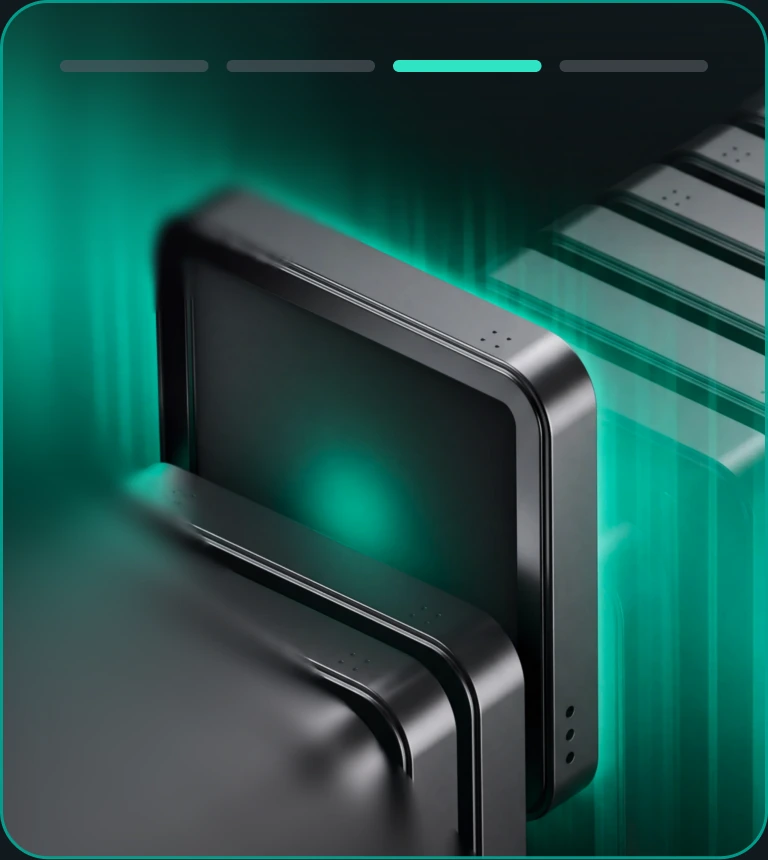
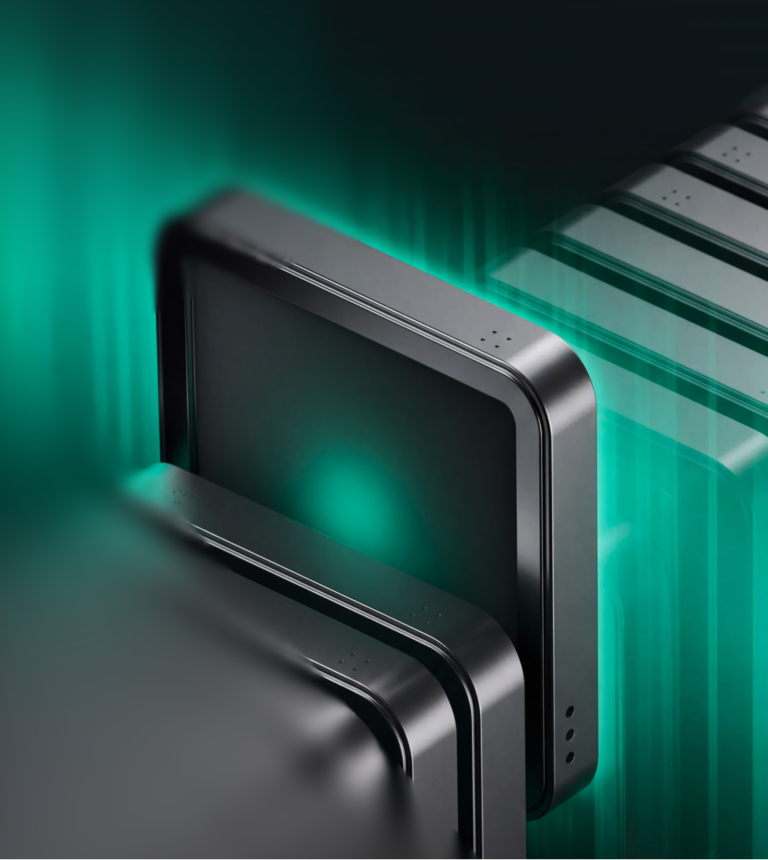
Use supplied slider artwork and synchronized story progress without bottom overlay

Changed region(s): [[0.0, 0.393, 1.0, 1.0], [0.0, 0.0, 1.0, 0.514], [0.0625, 0.0605, 0.9375, 0.0907]]

diff --git a/src/interactive.js b/src/interactive.js
@@ -58,7 +58,6 @@ export class ShiftSelector {
     this.panels = [...root.querySelectorAll('.shift-image')];
     this.tabs = [...root.querySelectorAll('[data-shift]')];
     this.indicators = [...root.querySelectorAll('.shift-progress > span')];
-    this.playButton = root.querySelector('.carousel-play');
     this.active = 1;
     this.elapsed = 0;
     this.lastTime = 0;
@@ -77,40 +76,42 @@ export class ShiftSelector {
         if (event.key === 'End') target = shifts.length - 1;
         if (target === undefined) return;
         event.preventDefault();
+        this.pause('focus');
         this.select(target, true);
         this.tabs[target].focus({ preventScroll: true });
       });
     });
-    root.addEventListener('pointerenter', event => {
+    this.visual.addEventListener('pointerenter', event => {
       if (event.pointerType !== 'touch' && matchMedia('(hover: hover) and (pointer: fine)').matches) this.pause('hover');
     }, { passive: true });
-    root.addEventListener('pointerleave', () => this.resume('hover'), { passive: true });
-    root.addEventListener('focusin', () => this.pause('focus'));
+    this.visual.addEventListener('pointerleave', () => this.resume('hover'), { passive: true });
+    root.addEventListener('focusin', event => {
+      if (event.target.matches(':focus-visible')) this.pause('focus');
+    });
+    root.addEventListener('pointerdown', () => this.resume('focus'), { passive:true });
     root.addEventListener('focusout', event => { if (!root.contains(event.relatedTarget)) this.resume('focus'); });
     document.addEventListener('visibilitychange', () => document.hidden ? this.pause('hidden') : this.resume('hidden'));
     document.addEventListener('critical:dialog', event => event.detail.open ? this.pause('dialog') : this.resume('dialog'));
     new IntersectionObserver(entries => {
       for (const entry of entries) entry.isIntersecting ? this.resume('offscreen') : this.pause('offscreen');
     }, { threshold: .15 }).observe(this.visual);
-    this.playButton.addEventListener('click', () => {
-      this.automatic = !reducedMotion.matches && !this.automatic;
-      this.updatePlayControl();
-      this.schedule();
-    });
     reducedMotion.addEventListener('change', () => {
+      this.automatic = !reducedMotion.matches;
       if (reducedMotion.matches) {
-        this.automatic = false;
         this.sequence++;
         this.animations.forEach(animation => animation.cancel());
         this.animations = [];
         this.panels.forEach((panel, index) => { panel.hidden = index !== this.active; });
       }
-      this.updatePlayControl();
+      this.updateProgress();
       this.schedule();
     });
     let touchStart = null;
     this.visual.addEventListener('pointerdown', event => {
-      if (event.pointerType === 'touch') touchStart = { x: event.clientX, y: event.clientY };
+      if (event.pointerType === 'touch') {
+        touchStart = { x: event.clientX, y: event.clientY };
+        this.pause('touch');
+      }
     }, { passive: true });
     this.visual.addEventListener('pointerup', event => {
       if (!touchStart) return;
@@ -118,18 +119,15 @@ export class ShiftSelector {
       const dy = event.clientY - touchStart.y;
       touchStart = null;
       if (Math.abs(dx) > 42 && Math.abs(dx) > Math.abs(dy) * 1.3) this.select((this.active + (dx < 0 ? 1 : 3)) % 4, true);
+      this.resume('touch');
     }, { passive: true });
-    this.visual.addEventListener('pointercancel', () => { touchStart = null; }, { passive: true });
-    this.updatePlayControl();
+    this.visual.addEventListener('pointercancel', () => { touchStart = null; this.resume('touch'); }, { passive: true });
+    this.updateProgress();
   }
   pause(reason) { this.pauses.add(reason); this.schedule(); }
   resume(reason) { this.pauses.delete(reason); this.schedule(); }
-  updatePlayControl() {
-    this.playButton.disabled = reducedMotion.matches;
-    this.playButton.setAttribute('aria-label', reducedMotion.matches ? 'Automatic rotation disabled by reduced motion' : this.automatic ? 'Pause automatic slide rotation' : 'Play automatic slide rotation');
-    this.playButton.setAttribute('aria-pressed', String(!this.automatic));
-    this.playButton.querySelector('use').setAttribute('href', this.automatic ? '#pause' : '#play');
-    if (!this.automatic) this.visual.style.setProperty('--slide-progress', '1');
+  updateProgress() {
+    this.visual.style.setProperty('--slide-progress', this.automatic ? String(Math.min(1, this.elapsed / config.carouselInterval)) : '1');
   }
   schedule() {
     if (this.frame) cancelAnimationFrame(this.frame);
@@ -140,15 +138,16 @@ export class ShiftSelector {
   tick(time) {
     if (this.lastTime) this.elapsed += Math.min(100, time - this.lastTime);
     this.lastTime = time;
-    this.visual.style.setProperty('--slide-progress', String(Math.min(1, this.elapsed / config.carouselInterval)));
+    this.updateProgress();
     if (this.elapsed >= config.carouselInterval) this.select((this.active + 1) % 4, false);
     if (this.automatic && !this.pauses.size && !reducedMotion.matches) this.frame = requestAnimationFrame(next => this.tick(next));
     else this.frame = 0;
   }
   select(index, userInitiated = false) {
     if (!Number.isInteger(index) || index < 0 || index >= this.panels.length) return;
-    if (userInitiated) { this.automatic = false; this.updatePlayControl(); this.schedule(); }
     this.elapsed = 0;
+    this.updateProgress();
+    if (userInitiated) this.schedule();
     if (index === this.active) return;
     this.animations.forEach(animation => animation.cancel());
     this.animations = [];
@@ -167,9 +166,10 @@ export class ShiftSelector {
       tab.setAttribute('aria-selected', String(i === index));
       tab.tabIndex = i === index ? 0 : -1;
     });
-    this.indicators.forEach((indicator, i) => indicator.classList.toggle('is-active', i === index));
-    this.root.querySelector('.shift-position').textContent = `${shifts[index].index} / 04`;
-    this.root.querySelector('.shift-category').textContent = shifts[index].category;
+    this.indicators.forEach((indicator, i) => {
+      indicator.classList.toggle('is-active', i === index);
+      indicator.classList.toggle('is-complete', i < index);
+    });
     if (userInitiated) this.root.querySelector('#shift-announcement').textContent = `${shifts[index].index} of 4. ${shifts[index].title}. ${shifts[index].category}.`;
     if (reducedMotion.matches) { old.hidden = true; return; }
     const incoming = next.animate([

diff --git a/index.html b/index.html
@@ -86,15 +86,13 @@
         <div class="shifts-intro" data-reveal><h2 id="shifts-title">Understand the four shifts reshaping business risk</h2><p class="muted">The Critical 90 guide examines four closely connected cyber shifts through a business lens. It explains where exposure may arise, what the potential consequences are and which actions your business should prioritize over the next 90 days.</p><p class="shifts-prompt accent">What are the four cyber shifts?</p></div>
         <div class="shift-visual" id="shift-visual" data-reveal role="region" aria-roledescription="carousel" aria-label="Four cyber shifts">
           <div class="shift-images">
-            <div id="shift-panel-0" class="shift-image" role="tabpanel" aria-labelledby="shift-tab-0" hidden><img src="./assets/shift-revenue.webp" alt="Artificial intelligence accelerating cyber attacks" width="768" height="859" loading="lazy" decoding="async"></div>
-            <div id="shift-panel-1" class="shift-image is-active" role="tabpanel" aria-labelledby="shift-tab-1"><img src="./assets/shift-operations.webp" alt="Digital identity on a monitor, rendered in green light" width="615" height="688" loading="lazy" decoding="async"></div>
-            <div id="shift-panel-2" class="shift-image" role="tabpanel" aria-labelledby="shift-tab-2" hidden><img src="./assets/shift-compliance.webp" alt="Connected SaaS and supply-chain infrastructure" width="768" height="859" loading="lazy" decoding="async"></div>
-            <div id="shift-panel-3" class="shift-image" role="tabpanel" aria-labelledby="shift-tab-3" hidden><img src="./assets/shift-trust.webp" alt="Artificial intelligence and data security" width="768" height="859" loading="lazy" decoding="async"></div>
+            <div id="shift-panel-0" class="shift-image" role="tabpanel" aria-labelledby="shift-tab-0" hidden><img src="./assets/shift-revenue.webp" alt="Artificial intelligence accelerating cyber attacks" width="768" height="860" loading="lazy" decoding="async"></div>
+            <div id="shift-panel-1" class="shift-image is-active" role="tabpanel" aria-labelledby="shift-tab-1"><img src="./assets/shift-operations.webp" alt="Digital identity on a monitor, rendered in green light" width="768" height="860" loading="lazy" decoding="async"></div>
+            <div id="shift-panel-2" class="shift-image" role="tabpanel" aria-labelledby="shift-tab-2" hidden><img src="./assets/shift-compliance.webp" alt="Connected SaaS and supply-chain infrastructure" width="768" height="860" loading="lazy" decoding="async"></div>
+            <div id="shift-panel-3" class="shift-image" role="tabpanel" aria-labelledby="shift-tab-3" hidden><img src="./assets/shift-trust.webp" alt="Artificial intelligence and data security" width="768" height="860" loading="lazy" decoding="async"></div>
           </div>
-          <div class="shift-progress" aria-hidden="true"><span><i></i></span><span class="is-active"><i></i></span><span><i></i></span><span><i></i></span></div>
+          <div class="shift-progress" aria-hidden="true"><span class="is-complete"><i></i></span><span class="is-active"><i></i></span><span><i></i></span><span><i></i></span></div>
           <div class="scan-light" aria-hidden="true"></div>
-          <div class="shift-caption"><span class="shift-position">02 / 04</span><span class="shift-category">Operations</span></div>
-          <button class="carousel-play" aria-label="Pause automatic slide rotation" aria-pressed="false"><svg class="icon"><use href="#pause"/></svg></button>
         </div>
         <div class="shift-tabs" role="tablist" aria-label="Choose a cyber shift" data-reveal data-delay="100">
           <button class="shift-card glass" id="shift-tab-0" role="tab" aria-selected="false" aria-controls="shift-panel-0" tabindex="-1" data-shift="0"><span class="shift-title">AI accelerating<br> attacks</span><span class="shift-meta"><span class="shift-index">01</span><span class="category-label">Revenue</span></span></button>

diff --git a/src/styles.css b/src/styles.css
@@ -110,13 +110,7 @@ p { margin: 0; }
 .shift-progress>span { height: 4px; background: #41484c; border-radius: 5px; overflow: hidden; flex: 1; }
 .shift-progress i { display: block; height: 100%; background: linear-gradient(90deg,#65f5c9,#19c8c5); transform-origin: left; transform: scaleX(0); }
 .shift-progress .is-active i { transform: scaleX(var(--slide-progress,1)); }
-.shift-caption { position: absolute; z-index: 3; left: 0; right: 0; bottom: 0; padding: 65px 24px 20px; display: flex; align-items: center; gap: 16px; opacity: 0; transform: translateY(6px); background: linear-gradient(transparent,#041319e6); pointer-events: none; transition: opacity .3s,transform .4s; }
-.shift-position { font-size: 12px; color: var(--muted); font-variant-numeric: tabular-nums; letter-spacing: .08em; }
-.shift-category { font-size: 14px; color: var(--accent); text-transform: uppercase; letter-spacing: .1em; }
-.shift-visual:hover .shift-caption, .shift-visual:focus-within .shift-caption { opacity: 1; transform: none; }
-.carousel-play { position: absolute; right: 16px; bottom: 12px; z-index: 6; width: 40px; height: 40px; padding: 10px; border-radius: 50%; border: 1px solid rgb(109 230 205 / 30%); background: rgb(5 19 22 / 75%); opacity: .65; transition: opacity .2s,background .2s; }
-.carousel-play .icon { width: 18px; height: 18px; }
-.carousel-play:hover { opacity: 1; background: #14413b; }
+.shift-progress .is-complete i { transform: scaleX(1); }
 .shift-card:hover { border-color: #58d4bc88; transform: translateY(-3px); }
 .shift-card.is-selected { border-color: #00edc6; background: radial-gradient(ellipse at 110% 115%,#367f6d,transparent 70%),linear-gradient(120deg,#102e32,#071e22 62%); box-shadow: inset 0 0 45px #29ccb110,0 0 36px #00ba9210; }
 .shift-card.is-selected .shift-index { color: #b4ecdf; }
@@ -489,8 +483,6 @@ h1 { margin: 0; font-weight: 500; font-size: 82px; letter-spacing: 0; line-heigh
   .priority-art { display: none; }
   .impact-list { width: 100%; }
   .shift-visual { width: 100%; max-width: 100%; }
-  .shift-caption { opacity: 1; transform: none; }
-  .carousel-play { opacity: .85; }
   .shift-progress { padding: 20px; }
   .why-copy { width: 100%; }
   .why-copy h2 br:first-child { display: none; }
@@ -562,7 +554,6 @@ h1 { margin: 0; font-weight: 500; font-size: 82px; letter-spacing: 0; line-heigh
   .page-flow { padding-top: 64px; }
   .priority .button { width: 100%; }
   .shift-meta { gap: 6px; }
-  .shift-category { font-size: 12px; }
   .feature-grid { grid-template-columns: 1fr; }
   .feature-outcome .button { font-size: 18px; padding-inline: 16px; }
   .section-action { margin-top: 40px; }
@@ -619,10 +610,6 @@ h1 { margin: 0; font-weight: 500; font-size: 82px; letter-spacing: 0; line-heigh
   .impact-icon { width: 30px; height: 30px; }
   .shift-tabs { grid-template-columns: 1fr; }
   .shift-progress { padding: 16px 16px 18px; }
-  .shift-caption { padding: 50px 16px 18px; }
-  .shift-category { font-size: 11px; }
-  .shift-position { font-size: 10px; }
-  .carousel-play { right: 10px; bottom: 10px; width: 34px; height: 34px; padding: 8px; }
   .eyebrow { font-size: 12px; }
   .feature-icon { width: 40px; height: 44px; }
   .framework-heading .eyebrow { font-size: 11px; letter-spacing: .06em; }
@@ -687,7 +674,7 @@ h1 { margin: 0; font-weight: 500; font-size: 82px; letter-spacing: 0; line-heigh
 }
 
 @media print {
-  .site-header, .button, .back-top, .carousel-play, .scroll-cue, dialog, .reading-progress { display: none !important; }
+  .site-header, .button, .back-top, .scroll-cue, dialog, .reading-progress { display: none !important; }
   body { background: white; color: black; }
   .hero-stage { min-height: 0; }
   .hero-copy { padding-block: 40px; }

diff --git a/tests/browser_test.py b/tests/browser_test.py
@@ -91,11 +91,15 @@ async def run():
                 await page.locator(f'#shift-tab-{i}').click()
                 assert await page.locator(f'#shift-tab-{i}').get_attribute('aria-selected')=='true'
                 assert await page.locator(f'#shift-panel-{i}').is_visible()
+                assert await page.locator('.shift-progress .is-complete').count()==i
+                assert await page.locator(f'#shift-panel-{i} img').evaluate('e=>e.naturalWidth===768 && e.naturalHeight===860')
+                await page.locator('.shift-visual').screenshot(path=str(OUT/f'slider-image-{i+1}-1440.png'))
             await page.locator('#shift-tab-1').focus()
             for key,index in [('ArrowRight',2),('Home',0),('End',3),('ArrowDown',0),('ArrowUp',3)]:
                 await page.keyboard.press(key)
                 assert await page.locator(f'#shift-tab-{index}').get_attribute('aria-selected')=='true'
-            assert await page.locator('.carousel-play').is_disabled()
+            assert await page.locator('.carousel-play,.shift-caption').count()==0
+            assert await page.locator('.shift-visual').evaluate('e=>e.style.getPropertyValue("--slide-progress")==="1"')
             report['checks'].append('Four slide states, arrows, Home/End and reduced-motion autoplay lock')
             await page.locator('#shifts').screenshot(path=str(OUT/'slider-trust.png'))
             for day in (30,60,90):
@@ -129,8 +133,25 @@ async def run():
             await page.locator('.shift-visual').evaluate('e=>e.scrollIntoView({block:"center",behavior:"instant"})')
             await page.mouse.move(2,2)
             initial=await page.locator('[role=tab][aria-selected=true]').get_attribute('id')
+            await page.wait_for_timeout(350)
+            progress=await page.locator('.shift-visual').evaluate('e=>parseFloat(e.style.getPropertyValue("--slide-progress"))')
+            assert 0<progress<1,progress
             await page.wait_for_timeout(9100)
             assert initial!=await page.locator('[role=tab][aria-selected=true]').get_attribute('id')
+            # Manual selection restarts the timed strip, then the last slide wraps to the first.
+            await page.locator('#shift-tab-3').click()
+            assert await page.locator('.shift-visual').evaluate('e=>parseFloat(e.style.getPropertyValue("--slide-progress"))<.06')
+            assert await page.locator('.shift-progress .is-complete').count()==3
+            await page.mouse.move(2,2)
+            await page.wait_for_timeout(9100)
+            assert await page.locator('#shift-tab-0').get_attribute('aria-selected')=='true'
+            assert await page.locator('#shift-panel-0').is_visible()
+            assert await page.locator('.shift-progress .is-complete').count()==0
+            await page.locator('.shift-visual').hover()
+            paused=await page.locator('.shift-visual').evaluate('e=>e.style.getPropertyValue("--slide-progress")')
+            await page.wait_for_timeout(350)
+            assert paused==await page.locator('.shift-visual').evaluate('e=>e.style.getPropertyValue("--slide-progress")')
+            report['checks'].append('Story progress fills, advances image and card, resets on selection, wraps and pauses on image hover')
             await page.evaluate('scrollTo({top:0,behavior:"instant"})')
             await page.wait_for_timeout(200)
             frozen=await page.locator('.shift-visual').evaluate('e=>e.style.getPropertyValue("--slide-progress")')
@@ -155,7 +176,7 @@ async def run():
             await page.emulate_media(reduced_motion='reduce')
             await page.wait_for_timeout(100)
             assert await page.locator('.hero-artwork').evaluate('e=>!e.style.getPropertyValue("--hero-x")')
-            assert await page.locator('.carousel-play').is_disabled()
+            assert await page.locator('.shift-visual').evaluate('e=>e.style.getPropertyValue("--slide-progress")==="1"')
             report['checks'].append('Autoplay advances, pauses offscreen; pointer depth cancels when motion preference changes')
             await context.close()
 
@@ -168,6 +189,10 @@ async def run():
             await page.locator('.shift-visual').dispatch_event('pointerup',{'pointerType':'touch','clientX':70,'clientY':405})
             await page.wait_for_timeout(500)
             assert await page.locator('#shift-tab-2').get_attribute('aria-selected')=='true'
+            await page.emulate_media(reduced_motion='reduce')
+            for i in range(4):
+                await page.locator(f'#shift-tab-{i}').click()
+                await page.locator('.shift-visual').screenshot(path=str(OUT/f'slider-image-{i+1}-320.png'))
             await page.locator('.hero-artwork').evaluate('e=>e.scrollIntoView({block:"center",behavior:"instant"})')
             assert await page.locator('.hero-artwork').evaluate('e=>!e.style.getPropertyValue("--hero-x")')
             report['checks'].append('Touch swipe and no touch parallax')

diff --git a/docs/HANDOFF.md b/docs/HANDOFF.md
@@ -22,7 +22,7 @@ Kaspersky Sans Display подключён через официальный CORS
 
 ## Интерактив
 
-Нативный скролл, одноразовое раскрытие секций, мягкая реакция hero на мышь, локальные световые реакции карточек и прогресс чтения. Cyber shifts: четыре изображения, клавиатура, свайп, управляемое автопереключение. Автоматическая смена приостанавливается вне экрана, в скрытой вкладке, при фокусе, наведении и открытых диалогах. Ручной выбор останавливает её до нажатия Play.
+Нативный скролл, одноразовое раскрытие секций, мягкая реакция hero на мышь, локальные световые реакции карточек и прогресс чтения. Cyber shifts: четыре изображения из пользовательского архива «Kaspersky (9).zip» (1–4 в исходном порядке), клавиатура, свайп и автопереключение каждые 8,5 секунды. Верхние полоски показывают прогресс; картинка и активная карточка переключаются вместе. Ручной выбор начинает отсчёт заново. Автоматическая смена приостанавливается вне экрана, в скрытой вкладке, при клавиатурном фокусе, наведении на изображение, удержании пальца и открытых диалогах. Нижняя плашка и кнопка Play удалены.
 
 Бургер, обзор отчёта и детали 30/60/90 используют нативные dialog с Escape, удержанием фокуса и возвратом на кнопку открытия. `prefers-reduced-motion` отключает декоративное движение и автоматическую смену слайдов.
 

diff --git a/README.md b/README.md
@@ -45,7 +45,7 @@ The UI uses Kaspersky Sans Display at weights 300, 400, 500 and 600 through veri
 - The hero responds to a fine pointer through a damped spring; touch devices do not run pointer motion.
 - Section reveals run once. Ambient depth is limited to visible elements. Scrolling remains native.
 - Four distinct approved images are connected to the cyber-shift tabs. Arrow keys, Home/End and touch swipes are supported.
-- Optional slide rotation pauses on hover, keyboard focus, hidden tabs, offscreen content and open dialogs. Manual selection stops rotation until Play is pressed.
+- The top progress strips advance the image and selected card every 8.5 seconds. Manual selection resets the timer. Rotation pauses over the image, during touch hold or keyboard navigation, in hidden tabs, offscreen and while dialogs are open; reduced motion disables it. Images have no bottom caption or playback overlay.
 - The header menu uses a native modal dialog with inert background, keyboard focus containment, Escape and focus restoration.
 - The 30/60/90 cards expose focused stage details without inventing new report claims.
 - `prefers-reduced-motion` disables parallax, entry transitions and automatic rotation.
